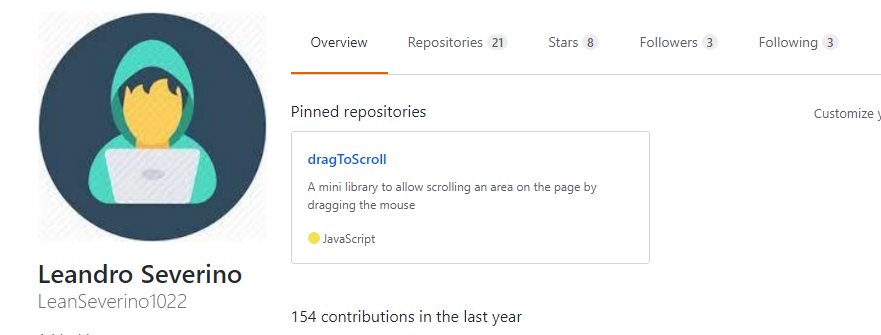
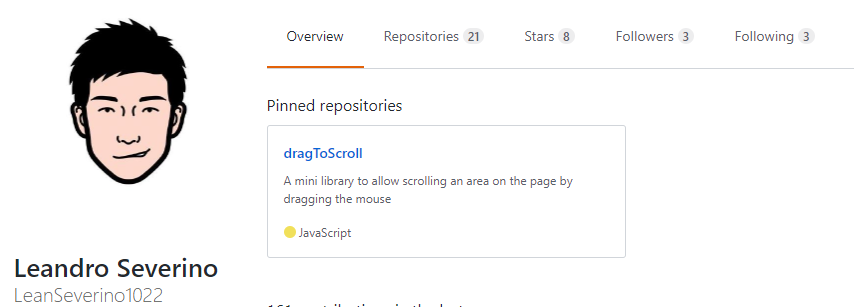
updated content, styles. New print styles
updated the github image, styles, content, assets
added print styles

diff --git a/printable_cv/css/style.css b/printable_cv/css/style.css
@@ -18,8 +18,9 @@
 html, body {
     font-size: 14px;
 	font-family: 'Lato', sans-serif;
-	 background: #222222;
-	margin: 0;    
+    background: #222222;
+	margin: 0;  
+    max-height: calc(100vh - 20px);
 }
 
 p,ul li,ol li{
@@ -28,6 +29,8 @@ p,ul li,ol li{
 	letter-spacing: .5px;
 }
 
+ul li { list-style-type: none; }
+
 h1,h2,h3,h4,h5,h6{
 	font: normal normal 2.125em/1.33em 'Lato';
 	text-transform:uppercase;
@@ -35,51 +38,18 @@ h1,h2,h3,h4,h5,h6{
     color: #343434;
 }
 
-ul li { list-style-type: none; }
 .thesis ol span { margin-left: 2px; }
-
-
- 
- /*HEADER - section with my name and position*/
-
- 
-
-
-/*END HEADER*/
-
-/*
-TO UPDATE
-        #profile_header
-            #profile_user
-                #profile_photo
-                #profile_name_area
-                    #profile_name
-                        h1
-                        h4
-            #profile_data
-                .profile_row name
-                .profile_row birth
-                .profile_row address
-                .profile_row phone
-                .profile_row email
-                .profile_row website
-*/
          
 #wrapper {
-    
-/*    min-width:*/
+    background: #fff;
     min-width: 950px;
     max-width: 1050px;
-    background: #fff;
-    
-    margin: 0 auto;
-/*    background: url('../images/Capture.PNG');background-size: cover;*/
+    margin: 0 auto;   
 }
 
 #profile_header {
     min-height: 155px;
-    padding: 30px 30px 0;
-    border-bottom: 1px solid ;
+    padding: 30px 30px 0;    
     clear: both;
 }
 
@@ -123,10 +93,6 @@ header {
     padding: 24px 30px 56px;
 }
 
-
-
-
-
 #profile_body .left {
     float: left;
     width: 70%;
@@ -146,10 +112,10 @@ header {
 
 
 h3.section_title {
-    color: #ECAC18;
+    color: #0D9F4A;
     padding-bottom: 12px;
     margin-bottom: 28px;
-    border-bottom: 1px #ECAC18 solid;
+    border-bottom: 1px #0D9F4A solid;
     font-size: 20px;
     font-weight: 500;
 }
@@ -169,7 +135,7 @@ h3.section_title {
 
 .exp_item_header .position {
     font-size: 16px;
-    font-weight: 600;
+    font-weight: 500;
 }
 
 .exp_item_header .position,
@@ -208,7 +174,7 @@ h3.section_title {
 
 .sec.right h4 {
     font-size: 14px;
-    font-weight: 600;
+    font-weight: 500;
 }
 
 
@@ -218,7 +184,7 @@ h3.section_title {
 }
 
 #profile_data .th {
-    font-weight: 700;
+    font-weight: 600;
     width: 90px;
     margin-right: 10px;
     text-align: right;
@@ -238,13 +204,13 @@ ul.skills{padding:0;text-align:center;}
 .skills li{ 
     border-radius:6px;
     display:inline-block;
-    background:#25AAE2;
-    color:#fff;
+    background: #0D9F4A;
+    color: #fff;
     padding:5px 10px;
     margin:2px 2px 10px;
 }
 /*other colors: black-alternative: #6A6565, yellow-alt: #F3CF8B*/
-.skills li:nth-child(odd){background:#0D9F4A;}
+.skills li:nth-child(odd){background:#25AAE2;}
 
 /*border + tail effect*/
 .icon_list li {
@@ -269,8 +235,7 @@ ul.skills{padding:0;text-align:center;}
     height: 0;
     border-top: solid 12px rgba(192,192,192,.7);
     border-left: solid 12px transparent;
-    border-right: solid 12px transparent;
-   
+    border-right: solid 12px transparent;   
 }
 
  ol.icon_list{
@@ -298,35 +263,75 @@ ul, ol { padding-left: 20px; }
 }
 
 .exp_item_header {
-    border: 1px solid rgba(192,192,192,0.5);
+    border: 1px solid rgba(192,192,192,0.8);
 }
 
+p#endnote { text-align: center; }
 #endnote a, #endnote a:visited {
     border-radius: 6px;
-    display: inline-block;
     font-size: 16px;
     text-decoration: none;
     background: #25AAE2;
     color: #fff;
-    padding: 5px 10px;
-    margin: 0 auto 10px;;
-       
+    padding: 0 10px;
+    margin: 0 auto 10px;       
 }
 
 #download_cv {
-    position: fixed;
-    top: 10px;
+    position: fixed;  
+    bottom: 0;
     right: 5px;
-    border: 1px solid #ff6666;
+    border: 1px solid #E2E1E6;
+    width: 100%;
+    text-align: center;
+    background: #343434;
+    
+    max-width: 1050px;
+    left: 50%;
+    transform: translateX(-50%);
+
 }
 
 #download_cv a {
-    color: #ff6666 !important;
+    color: #25AAE2;
     text-decoration: none;
-
-
+    padding: 0 5%;
+    line-height: 2;
+    letter-spacing: 1px;
 }
 
+/*for print*/
+
+@media print {
+     #download_cv {
+         display: none;
+     }
+    
+     h3.section_title {        
+         border-bottom: 1px #000 solid;
+     }
+    
+    .banner h2 {
+        margin-bottom: 0;
+        padding-bottom: 0;
+    }
+    
+     h3.section_title,
+    .skills li,
+    .banner span,
+    .banner h2,
+    .icon_list a,
+    .icon_list a:visited {
+         color: #000;        
+    }
+
+    .page-break {
+        page-break-before: always;
+        margin-bottom: 100px;
+        
+
+    }
+ }
 
 
 

diff --git a/printable_cv/index.html b/printable_cv/index.html
@@ -102,8 +102,7 @@
                                         <li><i class="fa fa-check" aria-hidden="true"></i> Created my own css library to build
                                             simple print-ready web forms</li>
 
-                                        <li><i class="fa fa-check" aria-hidden="true"></i>Worked on Php related tasks while training
-                                            in using the language </li>
+                                        <li><i class="fa fa-check" aria-hidden="true"></i>Worked on Php/MySQL related tasks </li>
 
                                     </ul>
                                 </div>
@@ -128,7 +127,7 @@
                             </div>
                         </div>
 
-                        <div class="exp_item">
+                        <div class="exp_item page-break">
 
                             <div class="exp_item_header">
                                 <p class="period">APR(2012) - JUNE(2013) </p>
@@ -202,14 +201,17 @@
                                         and on track of development schedule</li>
                                     <li><i class="fa fa-check" aria-hidden="true"></i> Conducted C++ tutorial for the project
                                         programmers</li>
-                                    <li><i class="fa fa-check" aria-hidden="true"></i> Provide simple systems needed for each
-                                        game like a physics behavior projectile system for the Tumbang Preso game</li>
-                                    <li><i class="fa fa-check" aria-hidden="true"></i> Setting up meetings and deadline schedules</li>
+                                    <li><i class="fa fa-check" aria-hidden="true"></i> Provide the physics behavior projectile system for the Tumbang Preso game</li>
+                                    <li><i class="fa fa-check" aria-hidden="true"></i> Set up meetings and deadline schedules</li>
                                     <li><i class="fa fa-check" aria-hidden="true"></i> Supervised the game play development of
                                         each game.</li>
                                     <li><i class="fa fa-check" aria-hidden="true"></i> Manage all groups simultaneously</li>
                                 </ul>
                             </div>
+                        </div>
+                        
+                        <div>
+                            <p id="endnote"><a target="_blank" href="https://leanseverino1022.github.io/printable_cv/index.html">Click to view resume as a web page</a></p>           
                         </div>
 
                     </div>
@@ -259,7 +261,7 @@
                         <li>Game Development</li>
                     </ul>
 
-                    <p><strong>Soft Skills:</strong> Fast learner, Resourceful, Mentoring, Excellent Team player, Gritty. </p>
+                    <p><b>Soft Skills</b>:  Fast learner, Resourceful, Mentoring, Excellent Team player, Gritty. </p>
                 </div>
 
                 <div class="links_sec">
@@ -295,22 +297,19 @@
                 <!--end of links section-->
 
                 <div class="educ_sec">
-
                     <h3 class="section_title">EDUCATION</h3>
-
                     <p>University of St. La Salle - La Salle Avenue, Bacolod City (2007-2011) </p>
                     <br>
                     <p> Bachelor’s Degree in Computer Science </p>
-
-
                 </div>
             </section>
-
-            <!--            <p id="endnote"><a target="_blank" href="https://leanseverino1022.github.io/printable_cv/index.html">I created this resume using pure HTML and CSS. Click to view as a web page</a></p>-->
-
+            
+            <div>            
+<!--
             <div id="download_cv">
-                <span class="txt"><a target="_blank" href="https://drive.google.com/uc?export=download&id=0B22S8zM8uVfuUVdaT0V2bXZmTUU">DOWNLOAD MY RESUME</a></span>
+                <span class="txt"><a target="_blank" href="https://drive.google.com/uc?export=download&id=0B22S8zM8uVfuUVdaT0V2bXZmTUU">( CLICK TO DOWNLOAD RESUME IN PDF FORMAT )</a></span>
             </div>
+-->
 
         </div>
         <!--end profile_body-->

diff --git a/index.html b/index.html
@@ -84,7 +84,8 @@
                 <h1>Gritty. <span class="yellow">Resourceful. </span> Passionate.</h1>
                 <p>I'm a freelance web developer based in the Philippines </p>
 
-                <p>I specialize in front-end. I'm proficient with HTML/CSS even without a 3rd party library. One of my main goals is to be an elite JavaScript developer. I do a lot of Javascript related projects and have started creating mobile apps. </p>
+                <p>I specialize in front-end. I'm proficient with HTML/CSS/Javascript. I've worked on game and web development projects. I do a lot of Javascript related projects and recently got started in mobile app development. </p>
+                <p>I'm working on my craft every day to be great at what I do.</p> 
 
                 <p>I want to work on new challenging projects and I am currently available for any freelance projects, as well as full time positions as a front-end (or potentially backend) developer. </p>
             </div>
@@ -315,7 +316,7 @@
 
                                         <li><i class="fa fa-check" aria-hidden="true"></i> Created my own css library to build simple print-ready web forms </li>
 
-                                        <li><i class="fa fa-check" aria-hidden="true"></i> Trained and did a little of PHP work </li>
+                                        <li><i class="fa fa-check" aria-hidden="true"></i> PHP/MySQL work with training</li>
 
                                     </ul>
                                 </div>
@@ -392,7 +393,7 @@
                             </div>
                             <p><strong>Game Title: Feeding Frenzy: A 2D word game</strong>
                             </p>
-                            <p>We created a game and I provided the team the systems to be used for the development. I was also the resource person for technical and game design issues. I managed to lead the team to finish the project on short notice.</p>
+                            <p>We created a game and I provided our team the systems to be used for the development. I was the resource person for technical and game design issues. I managed to lead the team to finish the project on short notice.</p>
 
                         </div>
 
@@ -413,7 +414,7 @@
                                     <li>Tumbang Preso: A Filipino Game</li>
                                     <li>HistoJump: A 2D Board game</li>
                                     <li>WordWarTech: WordGame</li>
-                                    <li>SignLanguage System (more of a training software for the mute)</li>
+                                    <li>Sign Language System (more of a training software for the mute)</li>
                                 </ol>
                                 <!--							<span>All games made in C++ using a proprietary game engine.</span>-->
                             </div>
@@ -537,8 +538,10 @@
                         </h4>
 
                         <ul class="list-unstyled">
+                            <li><i class="fa fa-map-marker fa-fw"></i><a href="https://www.google.com.ph/maps/place/Silay+City,+Negros+Occidental/data=!4m2!3m1!1s0x33aed61aecc67287:0x420b7cea0efc5e27?sa=X&ved=0ahUKEwjB69ml67XVAhUEgrwKHSicCngQ8gEIjQEwDw">Silay City, Philippines</a></li>
                             <li><i class="fa fa-phone fa-fw"></i> +639054577819</li>
                             <li><i class="fa fa-envelope-o fa-fw"></i> <a href="mailto:yihseverino@gmail.com">yihseverino@gmail.com</a>
+                            <li><i class="fa fa-skype fa-fw"></i>kype ID: headstrong24</li>
                             </li>
                         </ul>
                         <br>

diff --git a/css/style.css b/css/style.css
@@ -5,12 +5,15 @@
 html, body{
     font-size: 100%;
 	font-family: 'Lato', sans-serif;
-	background:#ffffff;
 	margin: 0;
     color: #333;
 }
 
-body { max-width: 1400px; margin: 0 auto;}
+body {
+    max-width: 1400px; 
+    margin: 0 auto;   
+    background: #000;
+}
 p,ul li,ol li{
 	margin:0;
 	font-size:14px;
